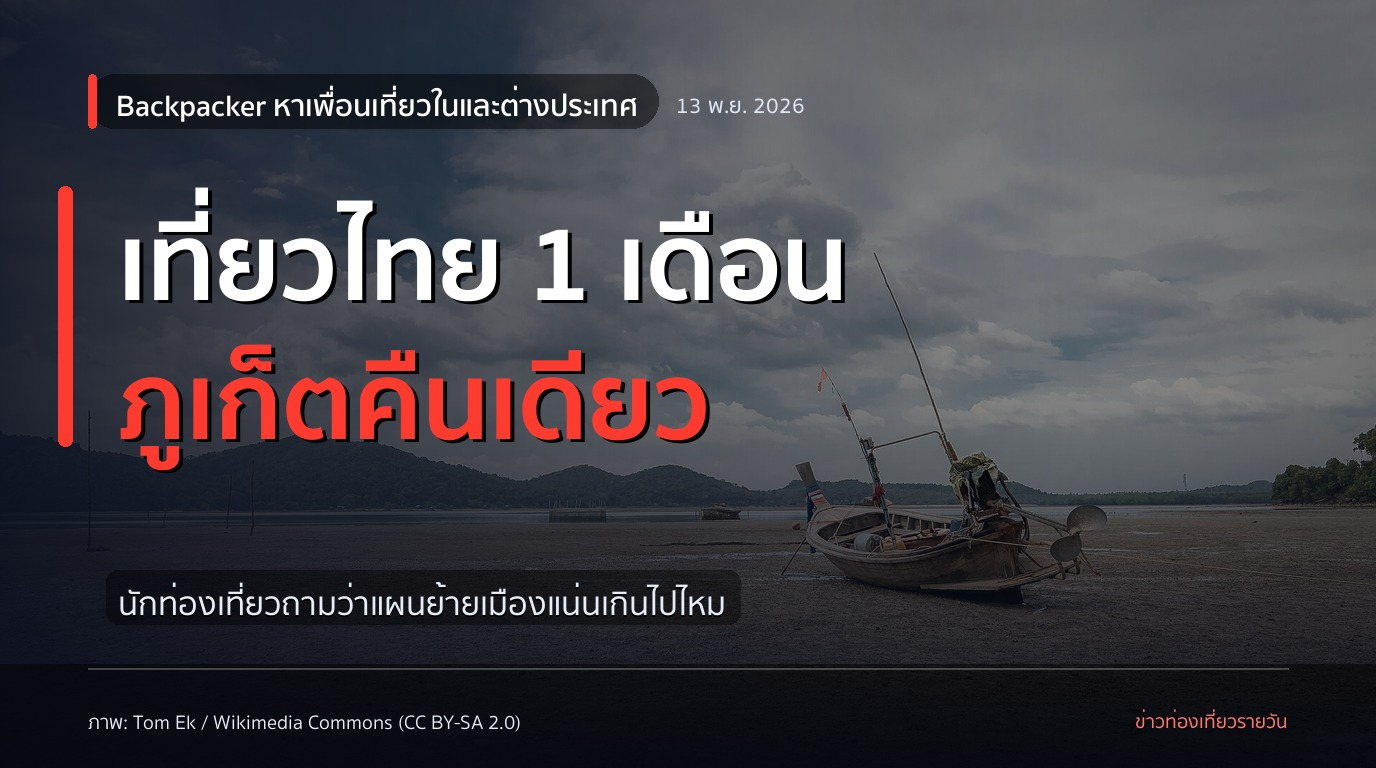
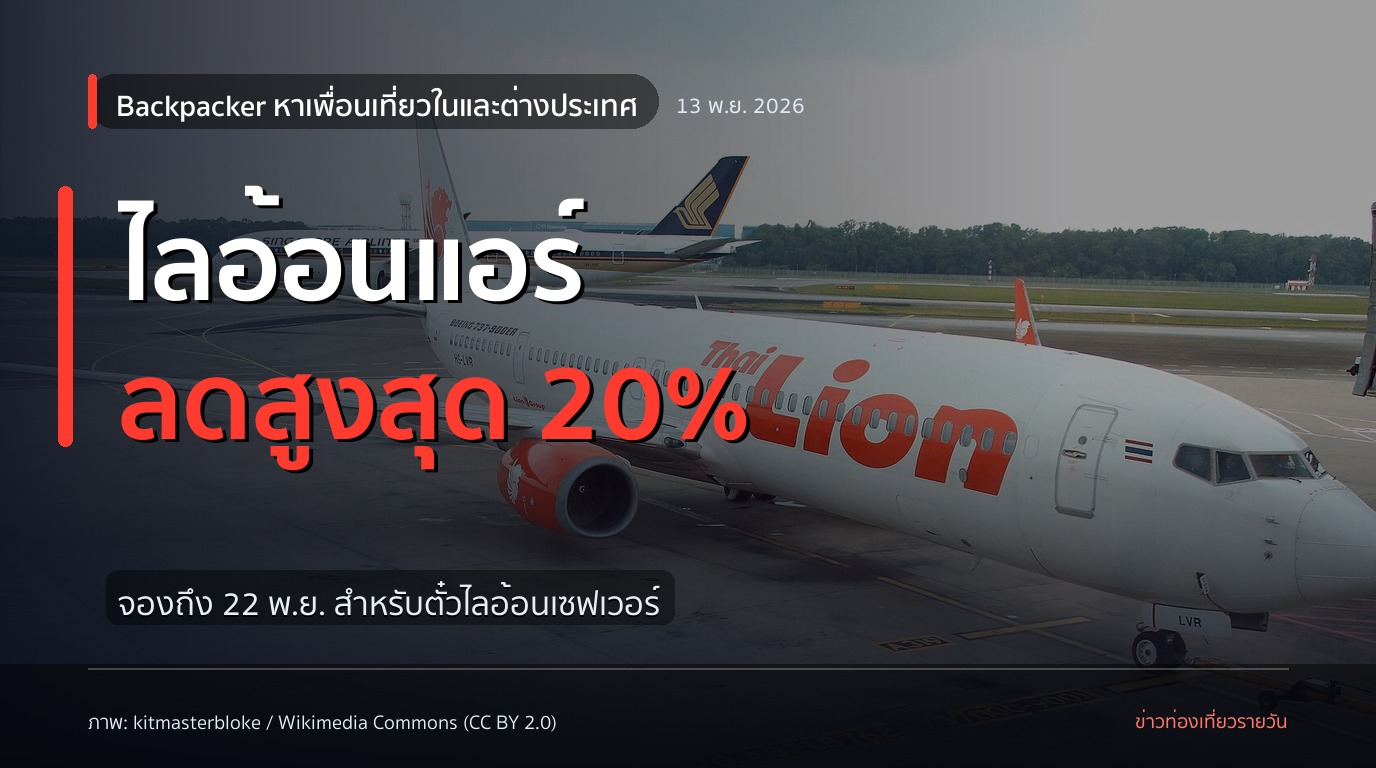
radar: 2026-11-13

diff --git a/docs/2026-11-13.html b/docs/2026-11-13.html
@@ -16,66 +16,60 @@
 <h1>Backpacker หาเพื่อนเที่ยวในและต่างประเทศ — 13 พ.ย. 2026</h1>
 <p class="meta">เผยแพร่ 2026-11-13</p>
 <img class="cover" src="img/cover-2026-11-13.jpg" alt="ภาพปกข่าว 2026-11-13"><p class="credit">ภาพ: Diliff / Wikimedia Commons (CC BY-SA 3.0)</p>
-<article><h2>1. ผู้โดยสารร้อง เที่ยวบินไห่หนานเลื่อน 4 วัน แต่ไฟลต์ต่อไม่ขยับ</h2>
+<article><h2>1. สุวรรณภูมิขอโทษ หลังเหตุผู้โดยสารจีน 22 คนกระทบเที่ยวบินไปปักกิ่ง</h2>
 <p><img alt="cover" src="img/post-1-cover-2026-11-13.jpg" /></p>
-<p>ผู้โดยสารร้อง เที่ยวบินไห่หนานเลื่อน 4 วัน แต่ไฟลต์ต่อไม่ขยับ</p>
-<p>ผู้โดยสารรายหนึ่งเล่าว่า เที่ยวบินขากลับระหว่างเซี่ยงไฮ้กับยุโรปถูกเลื่อนออกไป 4 วัน แต่เที่ยวบินต่อเครื่องในแผนการเดินทางเดียวกันไม่ได้ถูกปรับตาม จนเจ้าตัวระบุว่าติดอยู่ในเมืองที่ต้องต่อเครื่อง</p>
-<p>เขาบอกด้วยว่าพยายามติดต่อสายการบินผ่านช่องทางออนไลน์ และผ่านไป 60 วันแล้วยังไม่ได้ข้อยุติ ทั้งหมดนี้เป็นคำบอกเล่าของผู้โดยสารรายนั้น</p>
-<p>ถ้าได้รับแจ้งเปลี่ยนเวลาเที่ยวบิน อย่าดูแค่ไฟลต์แรก ควรเปิดดูทุกช่วงของการเดินทางและขอคำยืนยันแผนใหม่จากสายการบินไว้</p>
-<p>ใครเคยเจอไฟลต์แรกเปลี่ยน แต่ไฟลต์ต่อยังเป็นเวลาเดิมบ้าง?
-ที่มา: https://www.reddit.com/r/travel/comments/1xv80fn/trapped_for_4_days_flight_changes_no/</p>
-<h1>เที่ยวบินเลื่อน #ต่อเครื่อง #ไห่หนานแอร์ไลน์ส</h1>
-<p><em>ภาพ: Marek Ślusarczyk (Tupungato) Photo portfolio / Wikimedia Commons (CC BY 3.0)</em></p>
-<h2>2. ต่อเครื่องเองที่สุวรรณภูมิ เหลือเวลาแค่ชั่วโมงเดียวถ้าไฟลต์แรกช้า</h2>
+<p>สุวรรณภูมิขอโทษ หลังเหตุผู้โดยสารจีน 22 คน</p>
+<p>สนามบินสุวรรณภูมิออกมาขอโทษ หลังเหตุเผชิญหน้าระหว่างเจ้าหน้าที่รักษาความปลอดภัยกับผู้โดยสารชาวจีนกลุ่มหนึ่งกลายเป็นเรื่องที่ถูกแชร์บนโซเชียล กลุ่มนี้มี 22 คน และเที่ยวบินไปปักกิ่งเกิดความล่าช้า</p>
+<p>รายละเอียดที่เผยแพร่ยังไม่พอจะสรุปว่าใครเป็นฝ่ายผิด แต่สำหรับคนที่อยู่ในเที่ยวบินเดียวกัน ความล่าช้ากระทบแผนเดินทางได้ทันที หากเจอเหตุแบบนี้ที่สนามบิน ควรติดตามประกาศของสายการบินและเก็บข้อมูลเที่ยวบินไว้ให้ครบ</p>
+<p>คุณเคยเจอเหตุวุ่นวายที่ทำให้เที่ยวบินล่าช้าไหม?
+ที่มา: https://x.com/ThaiEnquirer/status/2084665986737947102</p>
+<h1>สุวรรณภูมิ #เที่ยวบินล่าช้า #ข่าวสายการบิน</h1>
+<p><em>ภาพ: David McKelvey from Brisbane, Australia / Wikimedia Commons (CC BY 2.0)</em></p>
+<h2>2. ตราประทับพาสปอร์ตมีคำว่า POO หลายพันเล่ม</h2>
 <p><img alt="cover" src="img/post-2-cover-2026-11-13.jpg" /></p>
-<p>ต่อเครื่องเองที่สุวรรณภูมิ เหลือเวลาแค่ชั่วโมงเดียวถ้าไฟลต์แรกช้า</p>
-<p>นักเดินทางรายหนึ่งจองเที่ยวบินเชียงรายเข้าสุวรรณภูมิกับไทยเวียตเจ็ท ตามกำหนดถึง 21.30 น. แล้วจะต่อเที่ยวบินของ ANA ที่ออก 00.10 น. เขาเรียกแผนนี้ว่าเป็นการต่อเครื่องเอง</p>
-<p>เจ้าตัวไปดูประวัติเที่ยวบินแล้วพบว่ามีครั้งหนึ่งเครื่องถึง 22.58 น. จึงกังวลว่าถ้าวันเดินทางลงราว 23.00 น. จะจัดการขั้นตอนก่อนขึ้นไฟลต์ถัดไปทันหรือไม่</p>
-<p>ใครจองตั๋วแยกเพื่อต่อเครื่อง ควรดูเวลาที่ต้องใช้จริงตั้งแต่เครื่องลงจนถึงขั้นตอนของไฟลต์ถัดไปก่อนตัดสินใจ</p>
-<p>คุณเคยต่อเครื่องเองที่สุวรรณภูมิด้วยเวลาประมาณนี้ไหม?
-ที่มา: https://www.reddit.com/r/ThailandTourism/comments/1xv3o8u/self_transfer_at_bkk/</p>
-<h1>สุวรรณภูมิ #ต่อเครื่องเอง #เชียงราย</h1>
-<p><em>ภาพ: David McKelvey from Brisbane, Australia / Wikimedia Commons (CC BY 2.0)</em></p>
-<h2>3. เปิดพาสปอร์ตแล้วเจอคำว่า POO บนตราประทับ</h2>
-<p><img alt="cover" src="img/post-3-cover-2026-11-13.jpg" /></p>
-<p>เปิดพาสปอร์ตแล้วเจอคำว่า POO บนตราประทับ</p>
-<p>บทความหนึ่งชวนคนเดินทางกลับไปดูหน้าพาสปอร์ต เพราะมีพาสปอร์ตหลายพันเล่มที่ถูกประทับคำว่า “POO” โดยหน่วยงานของสหรัฐฯ หลายคนอาจผ่านตาคำนี้มาแล้วโดยไม่ทันสังเกต</p>
-<p>เรื่องนี้ชวนให้นึกว่าตราประทับไม่ได้มีแค่วันที่เดินทาง บางดวงยังมีรหัสสนามบินสามตัวอยู่ด้วย พอเห็นตัวอักษรแปลกตาในเล่ม จึงอย่าเพิ่งตีความจากคำที่เห็นอย่างเดียว</p>
-<p>ลองเปิดดูตราประทับเก่า ๆ ก่อนเดินทางครั้งหน้า และหากสงสัยว่ารายการใดหมายถึงอะไร ให้ตรวจสอบกับหน่วยงานที่ออกตรานั้น</p>
-<p>คุณเคยเจอคำหรือรหัสแปลก ๆ บนตราประทับพาสปอร์ตไหม?
+<p>พาสปอร์ตหลายพันเล่มมีตราประทับคำว่า POO</p>
+<p>เรื่องนี้ชวนสะดุดตา เพราะบทความระบุว่าเป็นตราประทับที่รัฐบาลสหรัฐฯ ใช้จริง โดยตราเข้าประเทศมักมีรหัสสนามบินสามตัวอักษรอยู่ด้วย หลายคนอาจเคยเห็นตราในเล่มผ่าน ๆ แต่ไม่เคยสังเกตตัวอักษรเล็ก ๆ บนนั้น</p>
+<p>ถ้ามีพาสปอร์ตเล่มเก่าที่เก็บไว้ ลองเปิดดูตราประทับจากทริปที่ผ่านมา อาจเจอรหัสสนามบินที่จำได้ หรือคำที่อ่านแล้วต้องหยุดมองอีกที</p>
+<p>คุณเคยเจอตราประทับพาสปอร์ตที่ทำให้อมยิ้มไหม?
 ที่มา: https://www.paddleyourownkanoo.com/2026/11/13/thousands-of-passports-have-been-stamped-with-poo-and-you-might-not-have-realized-heres-how-to-check/</p>
-<h1>พาสปอร์ต #ตราประทับ #เรื่องเล่านักเดินทาง</h1>
+<h1>พาสปอร์ต #เรื่องเที่ยว #สนามบิน</h1>
 <p><em>ภาพ: The President's Office, Maldives / Wikimedia Commons (CC BY 4.0)</em></p>
-<h2>4. บินลอนดอน–กรุงเทพฯ ทั้งครอบครัว เจอตั๋วต่างกัน 1,800 ปอนด์</h2>
+<h2>3. โพสต์เตือนสนามบินไทยเปิดกระเป๋าโหลดตรวจได้โดยเจ้าของไม่อยู่</h2>
+<p><img alt="cover" src="img/post-3-cover-2026-11-13.jpg" /></p>
+<p>โพสต์เตือนเรื่องกระเป๋าโหลดที่สนามบินไทย ตั้งแต่ 16 ต.ค.</p>
+<p>ผู้ใช้ X รายหนึ่งระบุว่า สนามบินไทยสามารถเปิดตรวจสัมภาระที่โหลดใต้เครื่องได้ในกรณีที่เห็นว่าจำเป็น แม้เจ้าของกระเป๋าไม่ได้อยู่ด้วย และจะมีเอกสารใส่ไว้ในกระเป๋าที่ผ่านการตรวจ</p>
+<p>นี่เป็นข้อมูลจากโพสต์ที่แชร์ต่อกัน ผู้เดินทางควรเช็กข้อกำหนดล่าสุดกับสนามบินหรือสายการบินก่อนออกเดินทาง หากรับกระเป๋าแล้วพบเอกสารดังกล่าว ให้เก็บไว้พร้อมตรวจสภาพสัมภาระของตัวเอง</p>
+<p>คุณเคยได้รับกระเป๋าโหลดที่มีเอกสารแจ้งการตรวจอยู่ข้างในไหม?
+ที่มา: https://x.com/sabaai825/status/2113479416072544595</p>
+<h1>สนามบินไทย #กระเป๋าโหลด #เตรียมตัวบิน</h1>
+<p><em>ภาพ: User:Mattes / Wikimedia Commons (Public domain)</em></p>
+<h2>4. มีผู้โพสต์ว่าตั๋วเชียงใหม่–กรุงเทพฯ วันที่ 25 พ.ย. เต็มทุกเที่ยวบิน</h2>
 <p><img alt="cover" src="img/post-4-cover-2026-11-13.jpg" /></p>
-<p>บินลอนดอน–กรุงเทพฯ ทั้งครอบครัว เจอตั๋วต่างกัน 1,800 ปอนด์</p>
-<p>ครอบครัวหนึ่งกำลังเลือกตั๋วไปกลับจากลอนดอนมากรุงเทพฯ สำหรับผู้ใหญ่ 2 คนและเด็ก 2 คน อายุ 13 กับ 10 ปี เจ้าของโพสต์ระบุว่าตัวเลือกของเซินเจิ้นแอร์ไลน์อยู่ที่ 1,700 ปอนด์ ขณะที่ตัวเลือกของเอมิเรตส์และกาตาร์อยู่ที่ 3,500 ปอนด์</p>
-<p>ครอบครัวนี้กำลังคิดจะเลือกช่วงต่อเครื่องที่นานขึ้น เพื่อใช้โรงแรมสนามบินฟรีตามที่เข้าใจ และถามคนเคยบินว่าการเดินทางไกลกับเด็กจะเป็นอย่างไร</p>
-<p>ก่อนเลือกจากราคาตั๋ว ควรตรวจสอบเวลาเปลี่ยนเครื่องและเงื่อนไขโรงแรมของเที่ยวบินที่จองจริง</p>
-<p>ใครเคยบินเส้นทางนี้กับเด็ก ๆ แล้วมีเรื่องไหนอยากให้ครอบครัวนี้เตรียมตัว?
-ที่มา: https://www.reddit.com/r/ThailandTourism/comments/1xv6u5o/honest_opinions_return_flights_from_lon_to/</p>
-<h1>ตั๋วเครื่องบิน #ลอนดอนกรุงเทพ #ต่อเครื่อง</h1>
-<p><em>ภาพ: David McKelvey from Brisbane, Australia / Wikimedia Commons (CC BY 2.0)</em></p>
-<h2>5. รถไฟฟ้าสายสีแดง ต่อบัตรเหมาจ่ายวันละ 40 บาทถึงสิ้นปี 2570</h2>
+<p>เชียงใหม่–กรุงเทพฯ วันที่ 25 พ.ย. มีคนโพสต์ว่าตั๋วเต็ม</p>
+<p>ผู้ใช้ X รายหนึ่งระบุว่า หลังคืนลอยกระทง ตั๋วเครื่องบินจากเชียงใหม่กลับกรุงเทพฯ ในวันที่ 25 พ.ย. ไม่เหลือที่นั่งบนเว็บไซต์ของสายการบินที่ตรวจดู แม้ไทยเวียดเจ็ตและแอร์เอเชียจะมีหลายเที่ยวบินในวันนั้น</p>
+<p>นี่เป็นสถานะที่ผู้โพสต์พบในขณะตรวจ ไม่ใช่การยืนยันว่าทุกเที่ยวบินจะเต็มตลอดเวลา ใครต้องกลับวันดังกล่าวควรเช็กที่นั่งกับสายการบินโดยตรง และดูแผนเดินทางสำรองก่อนจองที่พักหรือกิจกรรมเพิ่ม</p>
+<p>คุณเคยหาตั๋วกลับหลังเทศกาลแล้วเจอเที่ยวบินเต็มไหม?
+ที่มา: https://x.com/RonallChersan/status/2120727982558044660</p>
+<h1>เชียงใหม่ #ตั๋วเครื่องบิน #ลอยกระทง</h1>
+<p><em>ภาพ: Bahnfrend / Wikimedia Commons (CC BY-SA 4.0)</em></p>
+<h2>5. สายสีแดงขยายตั๋วรายวัน 40 บาทถึงสิ้นปี 2570</h2>
 <p><img alt="cover" src="img/post-5-cover-2026-11-13.jpg" /></p>
-<p>รถไฟฟ้าสายสีแดง ต่อบัตรเหมาจ่ายวันละ 40 บาทถึงสิ้นปี 2570</p>
-<p>บอร์ดการรถไฟแห่งประเทศไทยเห็นชอบขยายบัตรโดยสารเหมาจ่ายรายวันของรถไฟฟ้าชานเมืองสายสีแดง อัตราบุคคลทั่วไป 40 บาท และนักเรียนนักศึกษา 30 บาท</p>
-<p>มาตรการที่ขยายเพิ่มจะเริ่มวันที่ 1 ธันวาคม 2569 และสิ้นสุดวันที่ 31 ธันวาคม 2570 ตามข้อมูลในรายงานข่าว ใครมีแผนนั่งสายสีแดงหลายเที่ยวในวันเดียวจึงมีตัวเลือกค่าเดินทางให้เทียบ</p>
-<p>ก่อนซื้อ ลองนับจำนวนเที่ยวที่จะนั่งในวันนั้น แล้วเทียบกับค่าโดยสารที่ต้องจ่ายตามปกติ</p>
-<p>คุณใช้สายสีแดงบ่อยแค่ไหน และบัตรรายวันคุ้มกับการเดินทางของคุณไหม?
+<p>สายสีแดง 40 บาทต่อวัน ขยายถึงสิ้นปี 2570</p>
+<p>บอร์ดการรถไฟแห่งประเทศไทยเห็นชอบขยายตั๋วเหมาจ่ายรายวันของรถไฟฟ้าชานเมืองสายสีแดง บุคคลทั่วไปจ่าย 40 บาท ส่วนนักเรียนและนักศึกษาจ่าย 30 บาท มาตรการที่ขยายนี้ครอบคลุมตั้งแต่ 1 ธ.ค. 2569 ถึง 31 ธ.ค. 2570</p>
+<p>ใครมีแผนใช้สายสีแดงหลายเที่ยวในวันเดียว ลองเทียบค่าเดินทางกับตั๋วรายวันก่อนซื้อ โดยเฉพาะวันที่ต้องต่อรถไปทำธุระหลายจุดในกรุงเทพฯ</p>
+<p>คุณใช้สายสีแดงบ่อยแค่ไหน และตั๋วรายวันคุ้มกับการเดินทางของคุณหรือเปล่า?
 ที่มา: https://www.khaosod.co.th/economics/news_10471411</p>
-<h1>รถไฟฟ้าสายสีแดง #ค่าเดินทาง #บัตรรายวัน</h1>
+<h1>รถไฟฟ้าสายสีแดง #ค่าเดินทาง #เที่ยวกรุงเทพ</h1>
 <p><em>ภาพ: Chitipat Witee / Wikimedia Commons (CC BY-SA 4.0)</em></p>
-<h2>6. เที่ยวไทย 1 เดือน เปิดทริปด้วยภูเก็ตคืนเดียวก่อนขึ้นเรือ</h2>
+<h2>6. ไทยไลอ้อนแอร์ลดสูงสุด 20% จองถึง 22 พ.ย.</h2>
 <p><img alt="cover" src="img/post-6-cover-2026-11-13.jpg" /></p>
-<p>เที่ยวไทย 1 เดือน เปิดทริปด้วยภูเก็ตคืนเดียวก่อนขึ้นเรือ</p>
-<p>นักท่องเที่ยวคนหนึ่งแชร์แผนเดินทางในไทยกับคู่รักช่วงต้นพฤษภาคมถึงมิถุนายน และถามคนอื่นว่าแผนแน่นเกินไปหรือไม่ เพราะอีกฝ่ายเริ่มรู้สึกว่ามีจุดแวะเยอะ</p>
-<p>ช่วงต้นของแผนคือบินลงภูเก็ตพัก 1 คืน ต่อเรือไปเกาะยาวน้อย 3 คืน ไปอ่าวนางอีก 4 คืน แล้วขึ้นรถไปเขาสก 3 คืน เจ้าของโพสต์มองว่าทำได้ และบอกว่าช่วงขับรถที่นานที่สุดในแผนคือเชียงดาวไปดอยช้าง 3 ชั่วโมง</p>
-<p>ถ้าจัดทริปหลายเมือง ลองดูวันย้ายที่พักควบคู่กับจำนวนคืนที่ได้เที่ยวจริง โดยเฉพาะวันที่ต้องต่อเรือหรือรถ</p>
-<p>ถ้าเป็นคุณ จะลดจุดแวะไหนจากแผนช่วงต้นนี้ไหม?
-ที่มา: https://www.reddit.com/r/travel/comments/1xv7wri/thailand_1_month_itinerary/</p>
-<h1>เที่ยวไทย #จัดทริป #ภูเก็ต</h1>
-<p><em>ภาพ: Tom Ek / Wikimedia Commons (CC BY-SA 2.0)</em></p></article>
+<p>ไทยไลอ้อนแอร์ลดสูงสุด 20% จองถึง 22 พ.ย.</p>
+<p>ผู้ใช้ X แชร์โปรโมชันครบรอบ 13 ปีของสายการบิน สำหรับบัตรโดยสารแบบไลอ้อนเซฟเวอร์ ทั้งเส้นทางในประเทศและระหว่างประเทศ ระบุช่วงจอง 12–22 พ.ย. 2569 และช่วงเดินทาง 12 พ.ย. 2569 ถึง 31 มี.ค. 2570</p>
+<p>ส่วนลดที่ระบุเป็นตัวเลขสูงสุด ไม่ใช่ราคาที่ทุกเที่ยวบินจะได้เท่ากัน ก่อนกดจ่าย ลองเลือกวันที่ต้องการเดินทางแล้วตรวจราคาสุดท้ายของเที่ยวบินนั้นบนช่องทางจอง</p>
+<p>คุณมีเส้นทางไหนที่กำลังรอดูราคาตั๋วอยู่?
+ที่มา: https://x.com/SP_5703/status/2121221311469158858</p>
+<h1>ไทยไลอ้อนแอร์ #โปรตั๋วเครื่องบิน #ตั๋วเครื่องบิน</h1>
+<p><em>ภาพ: kitmasterbloke / Wikimedia Commons (CC BY 2.0)</em></p></article>
 <footer>
   สร้างอัตโนมัติจาก Horizon AI News Radar · <a href="https://tstevy3a.github.io/horizon-travel-radar/">หน้าแรก</a><br>
   แหล่งข่าว: Hacker News, TechCrunch, The Verge, Ars Technica, CNBC, MarketWatch, Blognone
